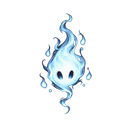
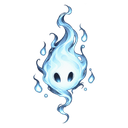
wip: F-075 normal küre kırpıldı, ORB_PX normal 44 (test_orb2 normal-boss kuralı kırmızı, karar bekliyor)

Changed region(s): [[0.25, 0.0312, 0.75, 0.9688]]

diff --git a/tools/art/process_gem_orbs.py b/tools/art/process_gem_orbs.py
@@ -2,7 +2,9 @@
 
 python tools/art/process_gem_orbs.py [--check]
 
-Kaynak tuvali kırpılmaz: kaynaktaki %12 boş pay oyun içi boyut oranını (34/48/68 px, GemTiers.ORB_PX) belirler.
+Elit ve boss kaynak tuvali kırpılmaz: kaynaktaki boş pay oyun içi boyut oranını (GemTiers.ORB_PX) belirler.
+Normal küre dar ve uzundur (opak kutu %41 x %79); boş payıyla 34 px kutuda ~14 px görünüyordu (F-075), bu yüzden
+opak kutusuna kare kırpılır (PAD pay).
 Kaynaklar (art/) export dışıdır.
 """
 from __future__ import annotations
@@ -18,10 +20,18 @@ SRC = ROOT / "art" / "source" / "gem-orbs"
 OUT = ROOT / "assets" / "gfx" / "fx" / "gems"
 NAMES = ["normal", "elit", "ara_boss"]
 SIZE = 128
+CROP = {"normal"}  # opak kutuya kırpılanlar
+PAD = 0.04  # kırpmada her yana, kare kenarının oranı
 
 
 def process(name: str) -> Image.Image:
     img = Image.open(SRC / f"{name}.png").convert("RGBA")
+    if name in CROP:
+        x0, y0, x1, y1 = img.getchannel("A").point(lambda v: 255 if v >= 128 else 0).getbbox()
+        half = round(max(x1 - x0, y1 - y0) * (0.5 + PAD))
+        cx, cy = (x0 + x1) // 2, (y0 + y1) // 2
+        # Tuval dışına taşan kısım şeffaf dolar (crop bunu kendisi yapar).
+        img = img.crop((cx - half, cy - half, cx + half, cy + half))
     # Şeffaf pikselin gizli RGB'si küçültmede kenara sızmasın: premultiplied çalış.
     return img.convert("RGBa").resize((SIZE, SIZE), Image.LANCZOS).convert("RGBA")
 

diff --git a/tools/art/tests/test_process_gem_orbs.py b/tools/art/tests/test_process_gem_orbs.py
@@ -32,3 +32,11 @@ def test_orbs_differ_in_mean_colour():
     for i in range(3):
         for j in range(i + 1, 3):
             assert sum(abs(a - b) for a, b in zip(m[i], m[j])) > 60, (i, j)
+
+
+def test_normal_orb_is_visible_at_least_20px_wide_at_its_game_size():
+    # F-075: boş pay normal küreyi 34 px kutuda ~14 px gösteriyordu; ORB_PX GemTiers.NORMAL = 44 (gem_tiers.gd).
+    normal_px = 44
+    alpha = Image.open(pg.OUT / "normal.png").getchannel("A").point(lambda v: 255 if v >= 128 else 0)
+    x0, _, x1, _ = alpha.getbbox()
+    assert (x1 - x0) / pg.SIZE * normal_px >= 20
